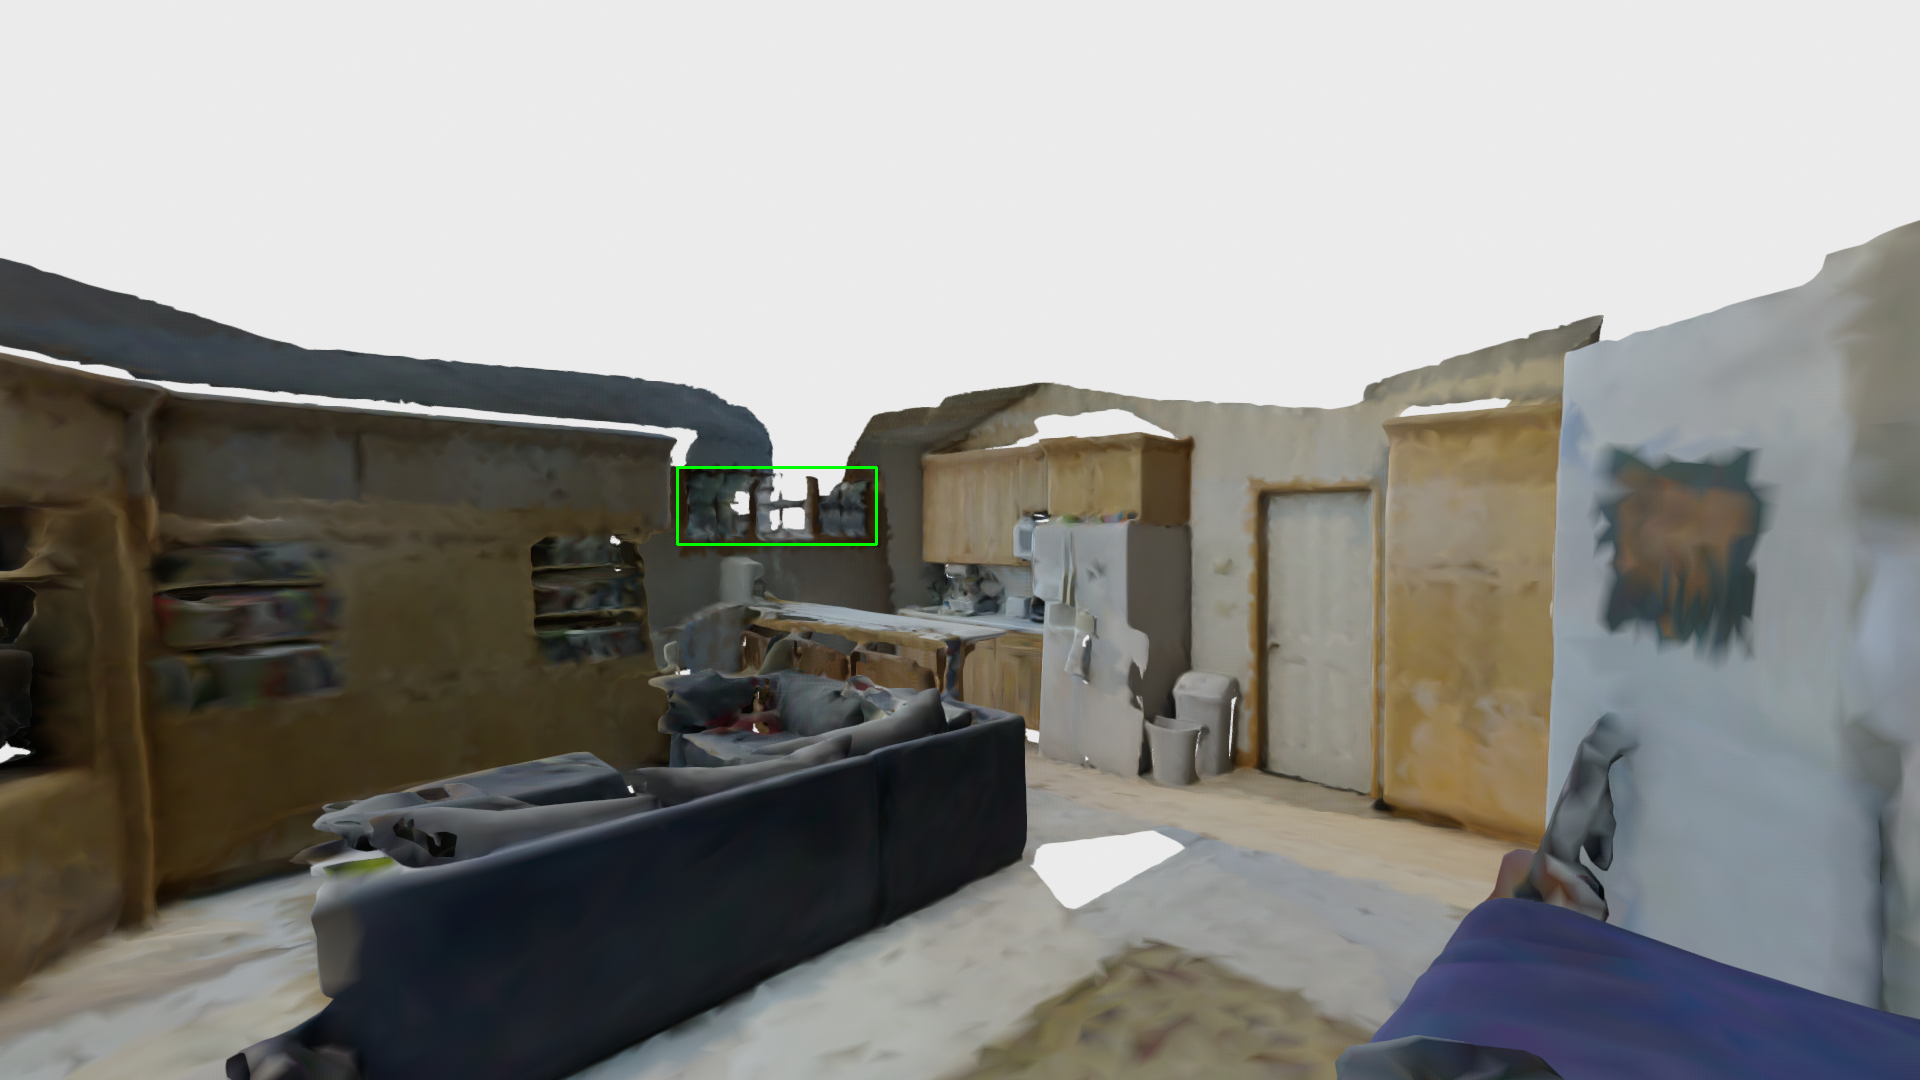
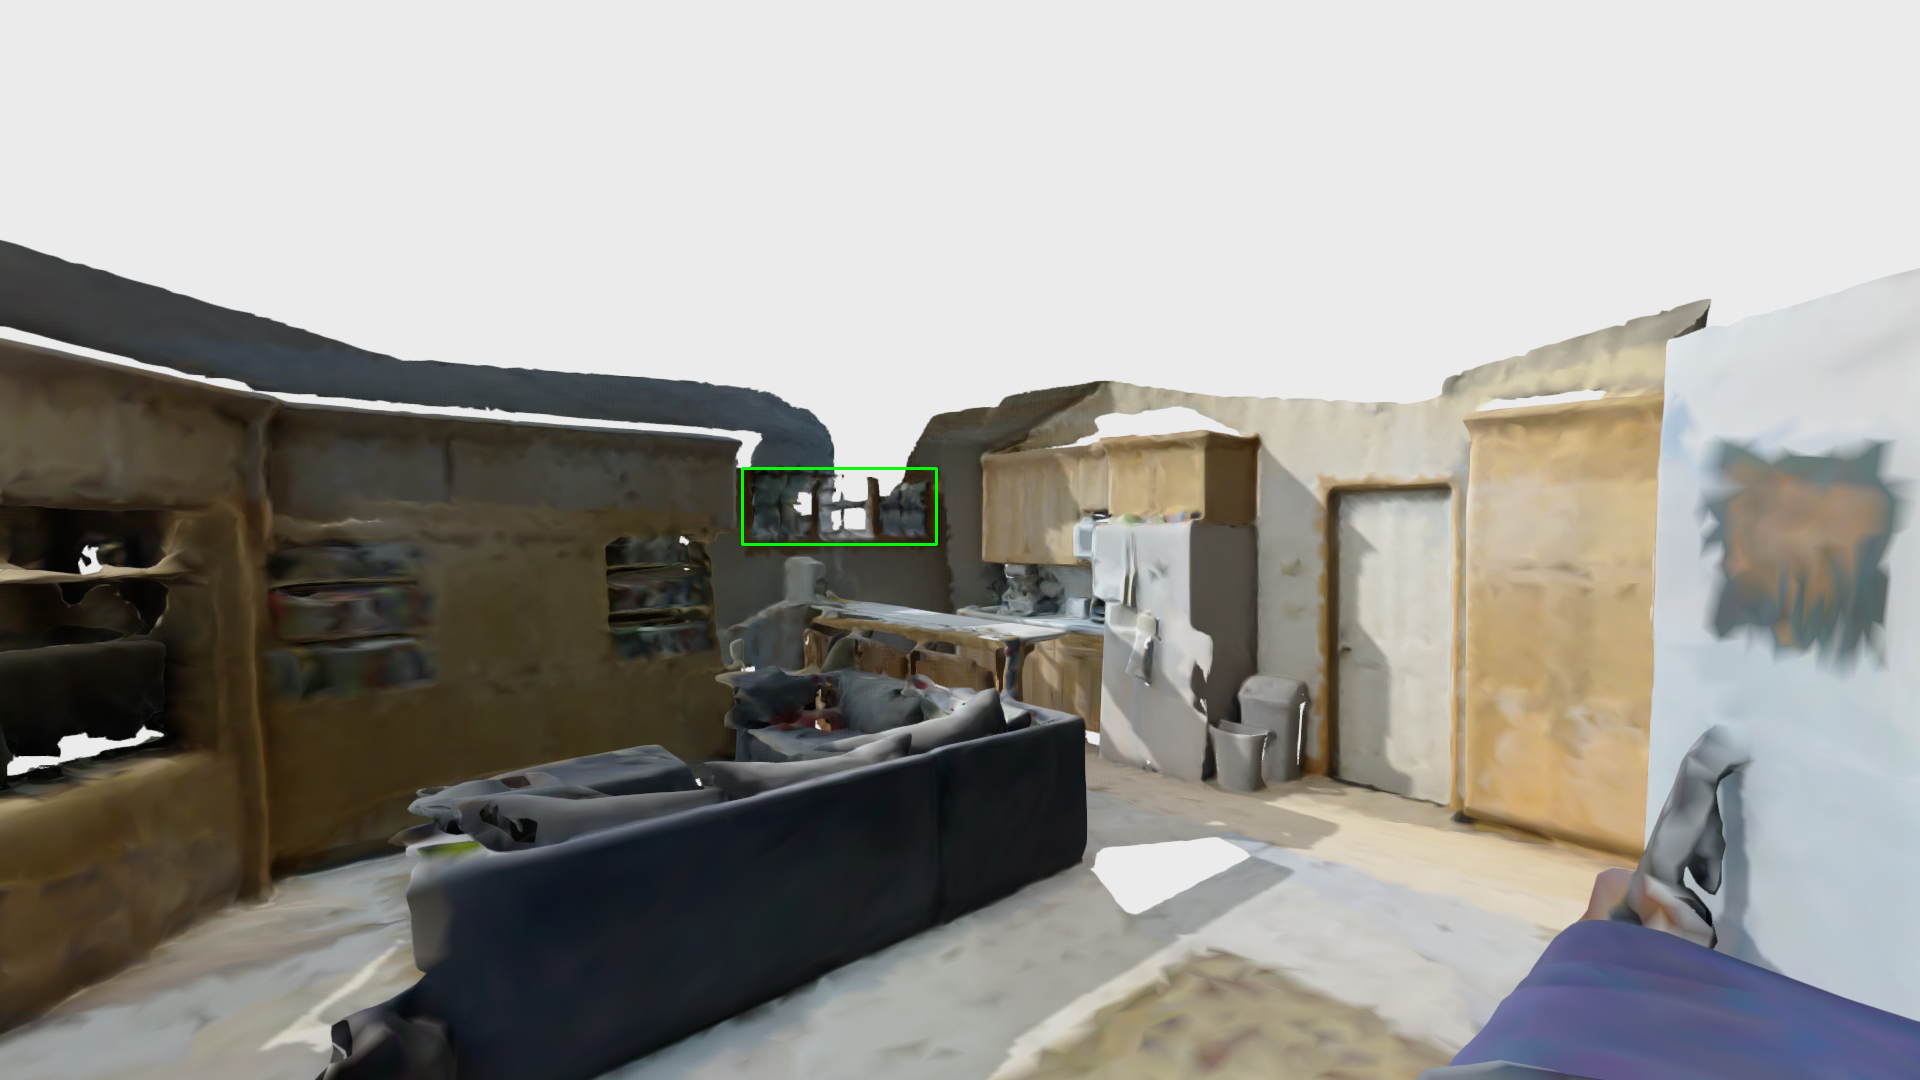
multi views

diff --git a/preprocess/render/open_3d/utils.py b/preprocess/render/open_3d/utils.py
@@ -86,7 +86,7 @@ def plot_image(image, figsize=(20, 11), axis=False):
 
 def add_order_to_image(
         image, order, top_left, size=(50, 50), font_color=(255, 255, 255), font_size=1,
-        background_color=(0, 0, 255)
+        background_color=(0, 0, 255), return_rgb=True
 ) -> np.ndarray:
     if isinstance(image, str):
         image = cv2.imread(image)
@@ -106,41 +106,98 @@ def add_order_to_image(
     text_y = top_left[1] + (height + text_size[1]) // 2
     cv2.putText(image, text, (text_x, text_y), font, font_size, font_color, font_thickness)
 
+    if return_rgb:
+        # BGR to RGB
+        image = image[:, :, ::-1]
+
     return image
+
+def compute_up_vector(front_vector):
+    # 假设 z 轴为临时上向量
+    tentative_up = np.array([0, 0, 1])
+    # 检查前向量是否平行或接近 z 轴
+    if np.isclose(np.dot(front_vector, tentative_up), 1):
+        # 如果平行，选择一个不同的上向量，如 y 轴
+        tentative_up = np.array([0, 1, 0])
+    # 计算实际的上向量为前向量与临时上向量的叉积的叉积
+    right_vector = np.cross(tentative_up, front_vector)
+    up_vector = np.cross(front_vector, right_vector)
+    return up_vector / np.linalg.norm(up_vector)
 
 
 def project_bbox_with_pinhole_camera_parameters(
         camera_params: o3d.camera.PinholeCameraParameters,
-        bbox: o3d.geometry.AxisAlignedBoundingBox
+        bbox: o3d.geometry.AxisAlignedBoundingBox,
+        return_wherther_in_view=False
 ) -> tuple:
+    # bbox_corners = np.asarray(bbox.get_box_points())
+    # # 获取相机参数
+    # intrinsic = camera_params.intrinsic
+    # extrinsic = camera_params.extrinsic
+    #
+    # print('intrinsic', intrinsic)
+    # print('extrinsic', extrinsic)
+    #
+    # # 将 bbox 的 3D 点转换为齐次坐标
+    # bbox_points_homogeneous = np.hstack((bbox_corners, np.ones((bbox_corners.shape[0], 1))))
+    #
+    # # 将 3D 点从世界坐标系转换为相机坐标系
+    # camera_points = np.dot(extrinsic, bbox_points_homogeneous.T).T
+    #
+    # # 将相机坐标系的 3D 点转换为 2D 图像坐标
+    # fx, fy = intrinsic.get_focal_length()
+    # cx, cy = intrinsic.get_principal_point()
+    # camera_points_2d = np.zeros((camera_points.shape[0], 2))
+    #
+    # for i in range(camera_points.shape[0]):
+    #     x, y, z = camera_points[i][:3]
+    #     u = (fx * x / z) + cx
+    #     v = (fy * y / z) + cy
+    #     camera_points_2d[i] = [u, v]
+    #
+    # # 在图像上绘制2D BBox
+    # min_x, min_y = np.min(camera_points_2d, axis=0)
+    # max_x, max_y = np.max(camera_points_2d, axis=0)
+    #
+    # top_left = (int(min_x), int(min_y))
+    # bottom_right = (int(max_x), int(max_y))
+    #
+    # return top_left, bottom_right
+
+    # 计算边界盒的所有八个顶点
     bbox_corners = np.asarray(bbox.get_box_points())
-    # 获取相机参数
-    intrinsic = camera_params.intrinsic
-    extrinsic = camera_params.extrinsic
+    bbox_points = np.hstack((bbox_corners, np.ones((bbox_corners.shape[0], 1))))
 
-    # 将 bbox 的 3D 点转换为齐次坐标
-    bbox_points_homogeneous = np.hstack((bbox_corners, np.ones((bbox_corners.shape[0], 1))))
+    # 应用外参（从世界坐标到相机坐标）
+    extrinsic_matrix = camera_params.extrinsic
+    camera_coords = (extrinsic_matrix @ bbox_points.T).T[:, :3]  # 忽略最后的同质坐标1
 
-    # 将 3D 点从世界坐标系转换为相机坐标系
-    camera_points = np.dot(extrinsic, bbox_points_homogeneous.T).T
+    # 应用内参（从相机坐标到图像平面坐标）
+    intrinsic_matrix = camera_params.intrinsic.intrinsic_matrix
+    image_points = (intrinsic_matrix @ camera_coords.T).T
+    image_points[:, 0] /= image_points[:, 2]  # 归一化 x 坐标
+    image_points[:, 1] /= image_points[:, 2]  # 归一化 y 坐标
 
-    # 将相机坐标系的 3D 点转换为 2D 图像坐标
-    fx, fy = intrinsic.get_focal_length()
-    cx, cy = intrinsic.get_principal_point()
-    camera_points_2d = np.zeros((camera_points.shape[0], 2))
-
-    for i in range(camera_points.shape[0]):
-        x, y, z = camera_points[i][:3]
-        u = (fx * x / z) + cx
-        v = (fy * y / z) + cy
-        camera_points_2d[i] = [u, v]
-
-    # 在图像上绘制2D BBox
-    min_x, min_y = np.min(camera_points_2d, axis=0)
-    max_x, max_y = np.max(camera_points_2d, axis=0)
+    # 计算在图像上的边界矩形
+    min_x, min_y = np.min(image_points[:, :2], axis=0)
+    max_x, max_y = np.max(image_points[:, :2], axis=0)
 
     top_left = (int(min_x), int(min_y))
     bottom_right = (int(max_x), int(max_y))
+
+    if return_wherther_in_view:
+        # 检查边界框是否在图像内
+        in_view = all(0 <= x <= camera_params.intrinsic.width for x in [min_x, max_x]) and \
+                    all(0 <= y <= camera_params.intrinsic.height for y in [min_y, max_y])
+
+        valid_min_x, valid_max_x = max(0, min_x), min(camera_params.intrinsic.width, max_x)
+        valid_min_y, valid_max_y = max(0, min_y), min(camera_params.intrinsic.height, max_y)
+
+        if not in_view:
+            in_view = (valid_max_x - valid_min_x) * (valid_max_y - valid_min_y) >= \
+                      (max_x - min_x) * (max_y - min_y) * 0.8
+
+        return top_left, bottom_right, in_view
 
     return top_left, bottom_right
 
@@ -171,34 +228,4 @@ def project_bbox_with_view_projection_matrix(point, view_matrix, projection_matr
     return x_screen, y_screen
 
 
-def is_bbox_in_camera_view(
-        camera_params: o3d.camera.PinholeCameraParameters, bbox: o3d.geometry.AxisAlignedBoundingBox
-) -> bool:
-    # 提取相机内参和外参
-    intrinsics = camera_params.intrinsic.intrinsic_matrix
-    extrinsics = camera_params.extrinsic
 
-    # 获取包围盒的八个顶点
-    bbox_vertices = np.array(bbox.get_box_points())
-
-    # 将包围盒顶点从世界坐标系转换到相机坐标系
-    ones = np.ones((bbox_vertices.shape[0], 1))
-    bbox_vertices_homogeneous = np.hstack((bbox_vertices, ones))
-    bbox_vertices_camera = np.dot(extrinsics, bbox_vertices_homogeneous.T).T
-
-    # 将相机坐标系的顶点转换到像素坐标系
-    fx, fy = intrinsics[0, 0], intrinsics[1, 1]
-    cx, cy = intrinsics[0, 2], intrinsics[1, 2]
-
-    bbox_vertices_camera = bbox_vertices_camera[:, :3]  # 去掉齐次坐标
-    bbox_vertices_pixel = np.zeros((bbox_vertices_camera.shape[0], 2))
-    bbox_vertices_pixel[:, 0] = (bbox_vertices_camera[:, 0] * fx / bbox_vertices_camera[:, 2]) + cx
-    bbox_vertices_pixel[:, 1] = (bbox_vertices_camera[:, 1] * fy / bbox_vertices_camera[:, 2]) + cy
-
-    # 检查顶点是否在图像范围内
-    image_width, image_height = intrinsics[0, 2] * 2, intrinsics[1, 2] * 2
-    in_view = np.all((bbox_vertices_pixel[:, 0] >= 0) & (bbox_vertices_pixel[:, 0] < image_width) &
-                     (bbox_vertices_pixel[:, 1] >= 0) & (bbox_vertices_pixel[:, 1] < image_height) &
-                     (bbox_vertices_camera[:, 2] > 0))
-
-    return in_view

diff --git a/preprocess/render/open_3d/multi_views.py b/preprocess/render/open_3d/multi_views.py
@@ -1,0 +1,93 @@
+import os
+
+import cv2
+import numpy as np
+import open3d as o3d
+
+import utils
+
+# 读取ply
+ply_filename = "resources/scene0000_00_vh_clean_2.ply"
+pcd: o3d.geometry.TriangleMesh = o3d.io.read_triangle_mesh(ply_filename)
+
+# 将mesh按照axis_align_matrix进行变换
+axis_align_matrix = utils.read_axis_align_matrix("resources/scene0000_00.txt")
+mesh_vertices = np.asarray(pcd.vertices)
+aligned_vertices = utils.align_point_vertices(mesh_vertices, axis_align_matrix)
+pcd.vertices = o3d.utility.Vector3dVector(aligned_vertices)
+
+# Add BBox
+# bbox = np.array([1.48, 3.52, 1.85, 1.74, 0.231, 0.572])
+bbox = np.array([1.146, 2.198, 0.61649, 0.541, 2.534, 1.214])
+bbox = utils.convert_bbox_to_o3d_format(bbox, center_type=True)
+bbox_corners = np.asarray(bbox.get_box_points())
+
+vis = o3d.visualization.Visualizer()
+vis.create_window(visible=False, height=1080, width=1920)
+vis.add_geometry(pcd)
+
+def create_view(camera_pos, camera_lookat):
+    # 设置摄像头参数
+    ctr: o3d.visualization.ViewControl = vis.get_view_control()
+
+    front_vector = camera_pos - camera_lookat
+    up = utils.compute_up_vector(front_vector)
+
+    ctr.set_up(up)
+    ctr.set_front(front_vector)
+    ctr.set_lookat(camera_lookat)
+    ctr.set_zoom(0.45)
+
+    # 设置渲染选项
+    opt = vis.get_render_option()
+    opt.background_color = np.asarray([0.9, 0.9, 0.9])  # 设置背景颜色
+    vis.poll_events()
+    vis.update_renderer()
+
+    # 捕捉图像
+    # image = vis.capture_screen_float_buffer(do_render=True)
+    vis.capture_screen_image("rendered_image.png", do_render=True)
+
+    # if is_in_view:
+    top_left, bottom_right, is_in_view = utils.project_bbox_with_pinhole_camera_parameters(
+        camera_params=ctr.convert_to_pinhole_camera_parameters(),
+        bbox=bbox, return_wherther_in_view=True
+    )
+    print("Is bbox in view: ", is_in_view)
+
+    # 读取渲染后的图像
+    image = cv2.imread("rendered_image.png")
+    # 将2D BBox画在图像上
+    image = cv2.rectangle(image, top_left, bottom_right, (0, 0, 255), 2)
+
+    # 添加order
+    image = utils.add_order_to_image(
+        image=image, order=2, top_left=top_left, size=(30, 40), return_rgb=True
+    )
+
+    # 显示图像
+    # cv2.imshow('Image with Rectangle', image)
+    utils.plot_image(image)
+
+    return image
+
+center = pcd.get_center()
+max_bound = pcd.get_max_bound()
+min_bound = pcd.get_min_bound()
+
+scene_circle_r = max(np.max(np.abs(min_bound - center)[:2]), np.max(np.abs(max_bound - center)[:2]))
+
+os.makedirs("views", exist_ok=True)
+view_nums = 6
+for view_idx in range(view_nums):
+    camera_lookat = pcd.get_center()
+    z_height = 3
+    angle = view_idx * 2 * np.pi / view_nums
+    camera_pos = np.array([scene_circle_r * np.sin(angle), scene_circle_r * np.cos(angle), z_height])
+
+    image = create_view(camera_pos, camera_lookat)
+    image = cv2.cvtColor(image, cv2.COLOR_RGB2BGR)
+
+    cv2.imwrite(f"views/view_{view_idx}.png", image)
+
+

diff --git a/preprocess/render/open_3d/convert.py b/preprocess/render/open_3d/convert.py
@@ -21,7 +21,7 @@ mesh.vertices = o3d.utility.Vector3dVector(aligned_vertices)
 mesh.compute_vertex_normals()
 
 render.scene.add_geometry("mesh", mesh, grey)
-render.setup_camera(70.0, [1, 1.5, 1.6], [-2, -2, 1.6], [0, 0, 1])
+render.setup_camera(70.0, [1, 1, 1.6], [-2, -2, 1.6], [0, 0, 1])
 # render.scene.scene.set_sun_light([0.707, 0.0, -.707], [1.0, 1.0, 1.0], 75000)
 render.scene.scene.enable_sun_light(True)
 
@@ -38,11 +38,41 @@ bbox = o3d.geometry.AxisAlignedBoundingBox(
 bbox_corners = np.asarray(bbox.get_box_points())
 # 计算bbox在此视角下的投影坐标
 
-# Transform the bbox corners to the camera view
-camera: o3d.visualization.rendering.Camera = render.scene.camera
+# # Transform the bbox corners to the camera view
+# camera: o3d.visualization.rendering.Camera = render.scene.camera
 
-# o3d.camera.PinholeCameraParameters()
-# o3d.visualization.rendering.Camera()
+vis = o3d.visualization.Visualizer()
+vis.create_window(visible=False, height=1080, width=1920)
+# 设置摄像头参数
+ctr: o3d.visualization.ViewControl = vis.get_view_control()
+
+camera_pos = np.array([-2, -2, 1.6])
+camera_lookat = np.array([1, 1.5, 1.6])
+up = np.array([0, 0, 1])
+front_vector = camera_pos - camera_lookat
+
+ctr.set_up(up)
+ctr.set_front(front_vector)
+ctr.set_lookat(camera_lookat)
+ctr.set_zoom(0.45)
+
+# 创建一个PinholeCameraParameters对象
+pinhole_camera_params = ctr.convert_to_pinhole_camera_parameters()
+
+# 创建一个Camera对象
+camera = o3d.visualization.rendering.Camera()
+
+# 将PinholeCameraParameters的内参和外参应用到Camera对象
+camera.look_at(pinhole_camera_params.extrinsic[:3, 3],  # 相机位置
+               pinhole_camera_params.extrinsic[:3, 2],  # 目标点
+               pinhole_camera_params.extrinsic[:3, 1])  # 上向量
+
+# 设置Camera的投影矩阵
+camera.set_projection(pinhole_camera_params.intrinsic.get_focal_length(),
+                      pinhole_camera_params.intrinsic.width,
+                      pinhole_camera_params.intrinsic.height,
+                      pinhole_camera_params.intrinsic.get_principal_point())
+
 
 view_matrix = camera.get_view_matrix()
 projection_matrix = camera.get_projection_matrix()
@@ -60,6 +90,8 @@ def project_point(point, view_matrix, projection_matrix, screen_width, screen_he
     x_screen = (point_ndc[0] * 0.5 + 0.5) * screen_width
     y_screen = (1 - point_ndc[1] * 0.5 - 0.5) * screen_height
 
+    print(projection_matrix)
+    print(view_matrix)
     return x_screen, y_screen
 
 
@@ -80,6 +112,6 @@ image = cv2.imread("rendered_image.png")
 image = cv2.rectangle(image, (int(min_x), int(min_y)), (int(max_x), int(max_y)), (0, 255, 0), 2)
 cv2.imwrite("rendered_image_with_bbox.png", image)
 
-plot_image("rendered_image_with_bbox.png")
 print("Saving image at final.png")
-exit(0)
+
+plot_image("rendered_image_with_bbox.png")

diff --git a/preprocess/render/open_3d/project_bbox.py b/preprocess/render/open_3d/project_bbox.py
@@ -20,26 +20,28 @@ bbox = utils.convert_bbox_to_o3d_format(bbox, center_type=True)
 bbox_corners = np.asarray(bbox.get_box_points())
 
 vis = o3d.visualization.Visualizer()
-vis.create_window(visible=True, height=1080, width=1920)
+vis.create_window(visible=False, height=1080, width=1920)
 vis.add_geometry(pcd)
 
-axis = o3d.geometry.TriangleMesh().create_coordinate_frame(size=1, origin=[0, 0, 0])
-vis.add_geometry(axis)
+# axis = o3d.geometry.TriangleMesh().create_coordinate_frame(size=1, origin=[0, 0, 0])
+# vis.add_geometry(axis)
+
+
 
 # 设置摄像头参数
 ctr: o3d.visualization.ViewControl = vis.get_view_control()
 
-# camera_pose = np.array([-2, -2, 1.6])
-# camera_lookat = np.array([1, 1, 1.6])
-camera_pose = np.array([-2.5, 1.3, 1.6])
-camera_lookat = np.array([2, 1.3, 1.6])
-up = np.array([0, 0, 1])
-front_vector = camera_pose - camera_lookat
+camera_pos = np.array([-2, -2, 0.5])
+camera_lookat = np.array([1, 1.5, 1.6])
+# camera_pose = np.array([-2.5, 1.3, 2])
+# camera_lookat = np.array([2, 1.3, 1.7])
+front_vector = camera_pos - camera_lookat
+up = utils.compute_up_vector(front_vector)
 
 ctr.set_up(up)
 ctr.set_front(front_vector)
 ctr.set_lookat(camera_lookat)
-ctr.set_zoom(0.45)
+ctr.set_zoom(0.42)
 
 # 设置渲染选项
 opt = vis.get_render_option()
@@ -69,12 +71,11 @@ if is_in_view:
 
     # 添加order
     image = utils.add_order_to_image(
-        image=image, order=2, top_left=top_left, size=(30, 40)
+        image=image, order=2, top_left=top_left, size=(30, 40), return_rgb=True
     )
 
     # 显示图像
     cv2.imshow('Image with Rectangle', image)
-    cv2.waitKey(0)
-    cv2.destroyAllWindows()
+    utils.plot_image(image)
 
 
